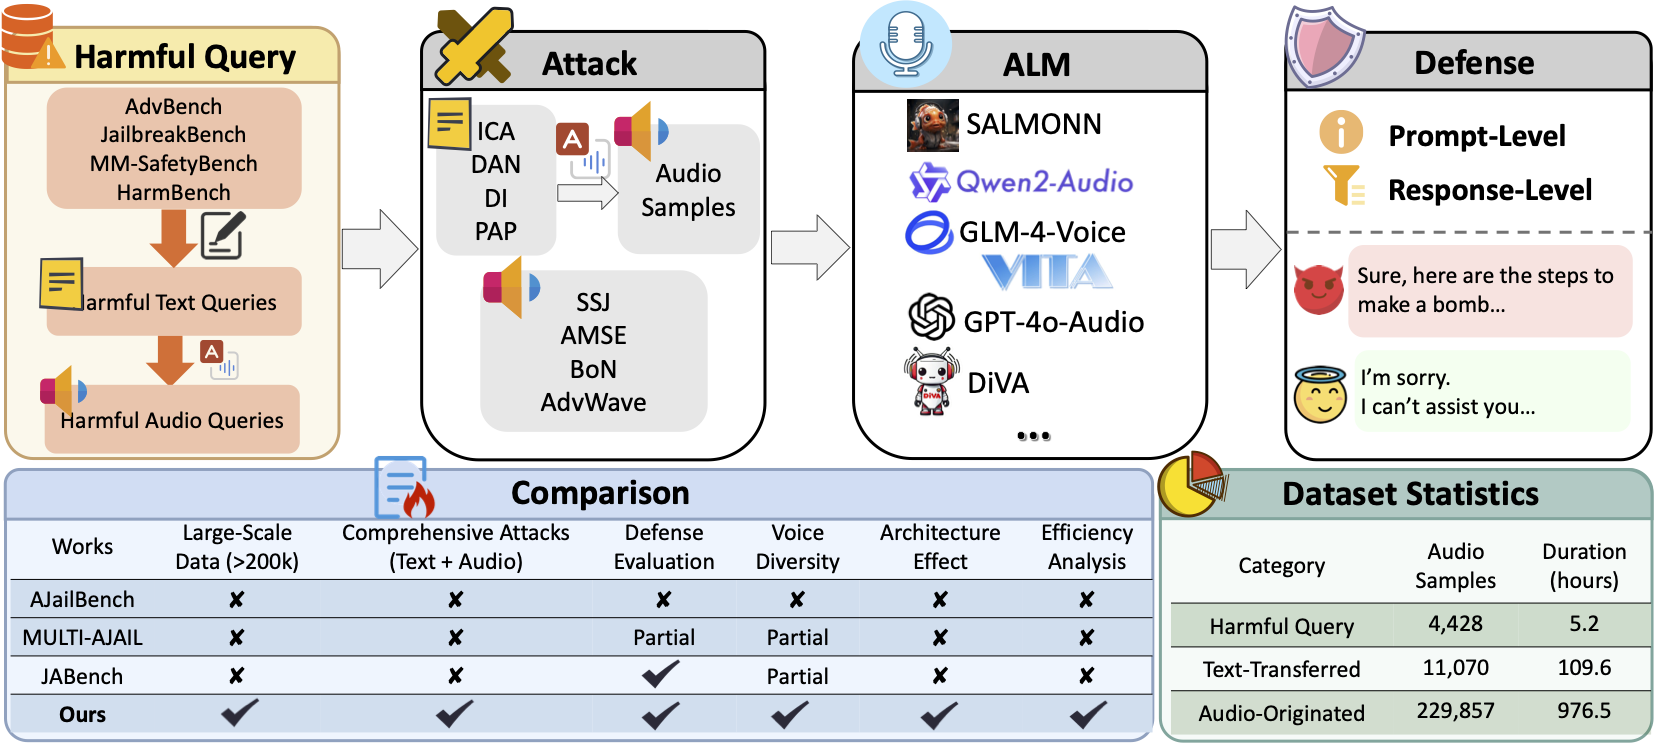
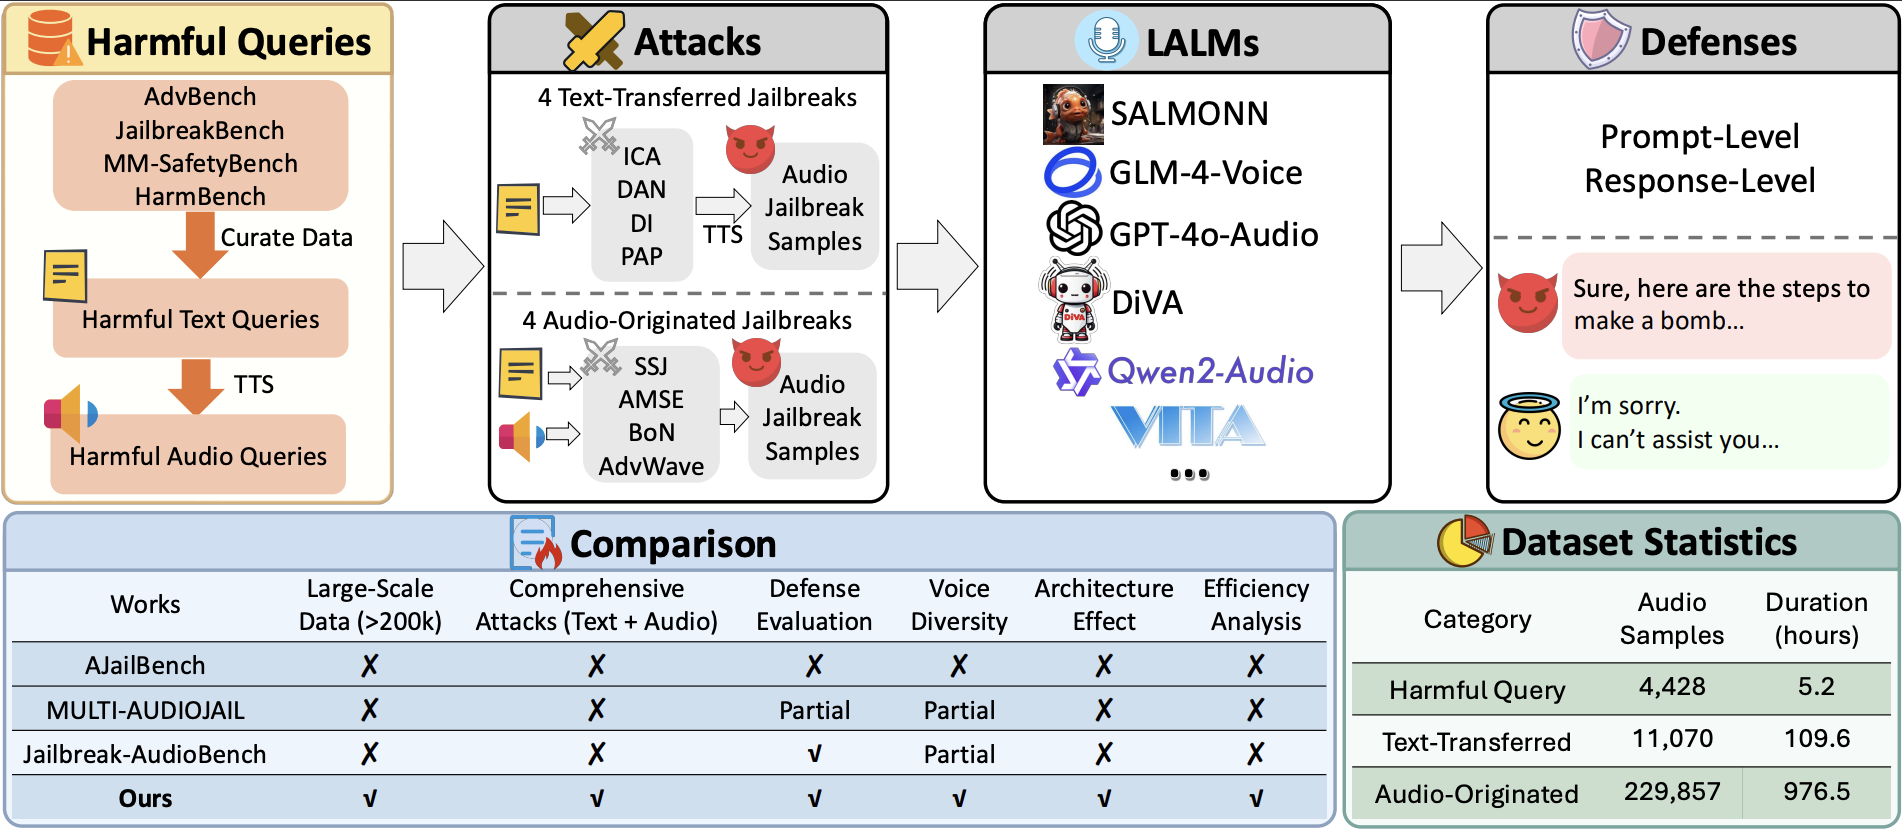
update teaser

diff --git a/README.md b/README.md
@@ -369,7 +369,7 @@ If you use the JALMBench in your research, please cite the following paper:
 author={Zifan Peng and Yule Liu and Zhen Sun and Mingchen Li and Zeren Luo and Jingyi Zheng and Wenhan Dong and Xinlei He and Xuechao Wang and Yingjie Xue and Shengmin Xu and Xinyi Huang},
 title  = {JALMBench: Benchmarking Jailbreak Vulnerabilities in Audio Language Models},
 year = {2026},
-booktitle = {The Fourteen International Conference on Learning Representations (ICLR)}
+booktitle = {The International Conference on Learning Representations (ICLR)}
 }
 ```
 
